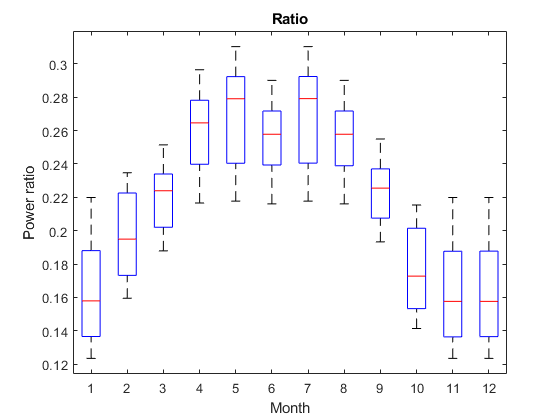
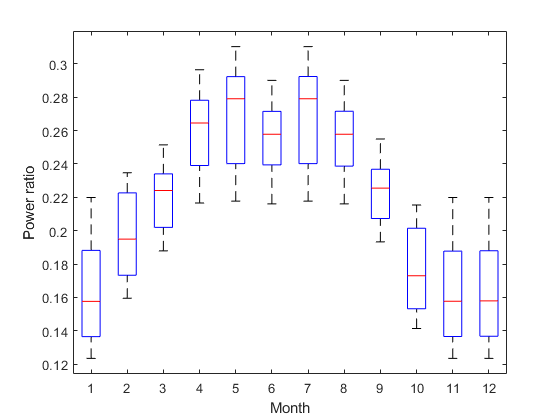
remove titles

diff --git a/HA1/ex1.m b/HA1/ex1.m
@@ -35,7 +35,7 @@ for i = 1:length(lambda_vec)
 end
 figure(1)
 boxplot(crude_all_vals')
-title('Raw Monte Carlo')
+% title('Raw Monte Carlo')
 ylabel('Power')
 xlabel('Month')
 
@@ -48,7 +48,7 @@ for i =1:length(lambda_vec)
     % Weibull inv according to formula in 1.
     u = rand(n,1);
     [F_c_inv, c]  = truncate_wbl_dist(lambda_vec(i), k_vec(i),n,u);
-
+    
     % New power 
     power = P((F_c_inv)).*(1-c)';
     truncated_all_vals(i,:) = power; %här multiplicerar vi med c
@@ -63,7 +63,7 @@ for i =1:length(lambda_vec)
 end 
 figure(2)
 boxplot(truncated_all_vals')
-title('Truncated Monte Carlo')
+% title('Truncated Monte Carlo')
 ylabel('Power')
 xlabel('Month')
 %% 2.b Use wind V as control variate (CV = control variate)
@@ -118,7 +118,7 @@ for i =1:length(lambda_vec)
 end
 figure(3)
 boxplot(IS_all_vals')
-title('Importance sampling')
+% title('Importance sampling')
 ylabel('Power')
 xlabel('Month')
 
@@ -152,7 +152,7 @@ for i = 1:length(k_vec)
 end
 figure(4)
 boxplot(AS_all_vals')
-title('Antithetic sampling')
+% title('Antithetic sampling')
 ylabel('Power')
 xlabel('Month')
 %% 2.e
@@ -166,7 +166,7 @@ end
 
 figure(13)
 plot(non_zero_prob, 'o')
-title('Probability of positive power-output')
+% title('Probability of positive power-output')
 ylabel('Probability')
 xlabel('Month')
 
@@ -191,7 +191,7 @@ end
 
 figure(5)
 boxplot(ratio_all_vals')
-title('Ratio')
+% title('Ratio')
 ylabel('Power ratio')
 xlabel('Month')
 %% 2.g
@@ -231,7 +231,7 @@ IS_var_mean = IS_montecarlo_variances';
 AS_var_mean = AS_montecarlo_variances';
 figure(7)
 plot([crude_var_mean truncated_var_mean CV_var_mean IS_var_mean AS_var_mean],'x')
-title('Variance for different methods')
+% title('Variance for different methods')
 xticks([6 18 30 42 54])
 xticklabels({'Raw' 'Trunc' 'CV' 'IS' 'AS'})
 ylabel('Log-scale')
@@ -245,7 +245,7 @@ IS_mean = IS_montecarlo_means';
 AS_mean = AS_montecarlo_means';
 figure(8)
 plot([crude_mean truncated_mean CV_mean IS_mean AS_mean],'x')
-title('Means for different methods')
+% title('Means for different methods')
 xticks([6 18 30 42 54])
 xticklabels({'Raw' 'Trunc' 'CV' 'IS' 'AS'})
 ylabel('Log-scale')
